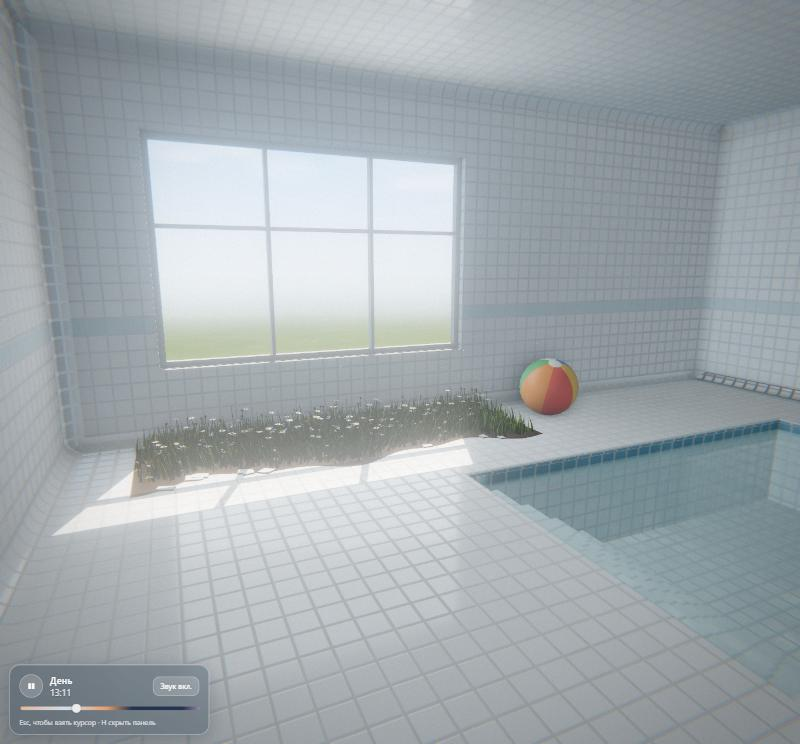
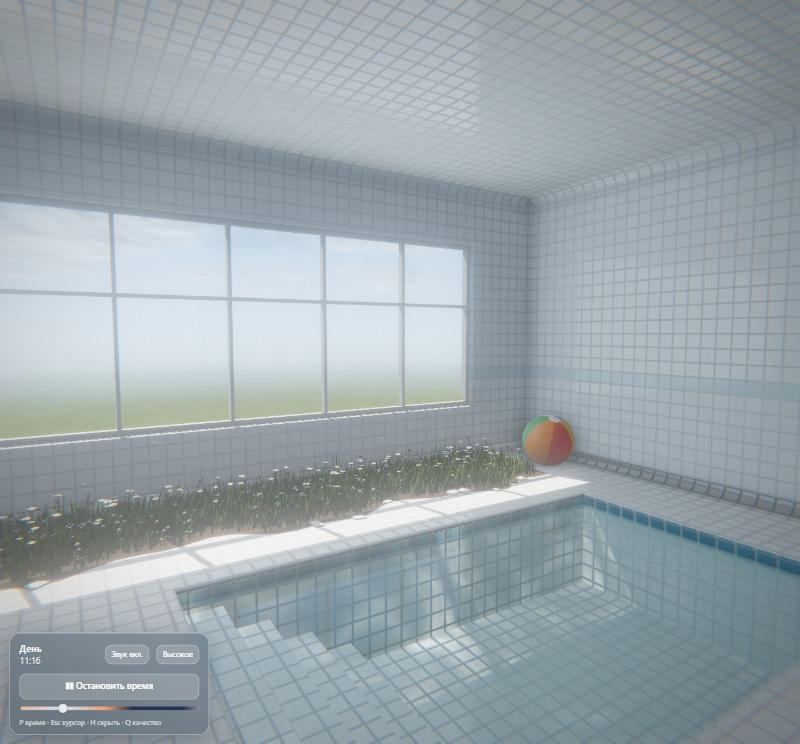
Widen window, extend meadow, drifting clouds, 2-minute day
- Window now spans most of the wall with six panes; meadow runs under it
- Two-layer drifting clouds lit from the sun side
- Day cycle lengthened to 120 s; clearer stop-time button
- Rebalanced light for the larger window

diff --git a/index.html b/index.html
@@ -4,7 +4,7 @@
   <meta charset="utf-8">
   <meta name="viewport" content="width=device-width, initial-scale=1">
   <title>Pool Room</title>
-  <meta name="description" content="Небольшая лиминальная комната с бассейном, окном и луговой травой. Сутки проходят за полторы минуты.">
+  <meta name="description" content="Небольшая лиминальная комната с бассейном, окном и луговой травой. Сутки проходят за две минуты.">
   <style>
     :root {
       --glass-bg: rgba(46, 62, 78, 0.32);
@@ -105,7 +105,8 @@
       gap: 10px;
     }
     .row { display: flex; align-items: center; gap: 12px; }
-    #play { width: 40px; height: 40px; padding: 0; border-radius: 50%; font-size: 13px; }
+    #play { width: 100%; font-weight: 600; }
+    #play.stopped { background: rgba(255, 214, 160, 0.3); border-color: rgba(255, 220, 170, 0.6); }
     .info { display: flex; flex-direction: column; flex: 1; }
     #phase { font-weight: 600; font-size: 16px; }
     #clock { color: var(--text-soft); font-variant-numeric: tabular-nums; }
@@ -153,12 +154,12 @@
   <div id="intro">
     <div class="glass card">
       <h1>Pool Room</h1>
-      <p>Тихая кафельная комната с бассейном и травой под окном. Сутки проходят за полторы минуты.</p>
+      <p>Тихая кафельная комната с бассейном и травой под окном. Сутки проходят за две минуты.</p>
       <ul class="keys">
         <li><b>WASD</b> ходить, <b>Shift</b> быстрее</li>
         <li><b>Мышь</b> осмотреться</li>
         <li><b>Клик</b> пнуть мяч</li>
-        <li><b>P</b> пауза времени, <b>H</b> скрыть панель</li>
+        <li><b>P</b> остановить время, <b>H</b> скрыть панель</li>
         <li><b>M</b> звук, <b>Q</b> качество графики</li>
         <li><b>Esc</b> вернуть курсор</li>
       </ul>
@@ -170,7 +171,6 @@
 
   <div id="panel" class="glass">
     <div class="row">
-      <button id="play" aria-label="Пауза">❚❚</button>
       <div class="info">
         <span id="phase">Утро</span>
         <span id="clock">06:00</span>
@@ -178,8 +178,9 @@
       <button id="sound">Звук вкл.</button>
       <button id="quality" title="Q">Высокое</button>
     </div>
+    <button id="play" title="P">❚❚  Остановить время</button>
     <input id="time" type="range" min="0" max="999" value="15" aria-label="Время суток">
-    <p class="hint">Esc, чтобы взять курсор · H скрыть панель</p>
+    <p class="hint">P время · Esc курсор · H скрыть · Q качество</p>
   </div>
 
   <script type="module" src="./src/main.js"></script>

diff --git a/src/layout.js b/src/layout.js
@@ -3,8 +3,8 @@
 
 export const ROOM = { x0: -4, x1: 4, z0: -3, z1: 3, height: 3.5, wall: 0.25, base: -1.15 };
 export const POOL = { x0: -1, x1: 3, z0: -1.2, z1: 1.3, bottom: -0.95, water: -0.12 };
-export const WINDOW = { x0: -3.2, x1: 0, y0: 0.7, y1: 2.8 };
-export const MEADOW = { x0: -3.45, x1: 0.25, z0: -3, z1: -1.9 };
+export const WINDOW = { x0: -3.2, x1: 3.0, y0: 0.7, y1: 2.8, panes: 6 };
+export const MEADOW = { x0: -3.45, x1: 3.25, z0: -3, z1: -1.9 };
 export const EYE_HEIGHT = 1.65;
 
 // Ступени из кафеля вдоль западного края бассейна: спускаются от пола к дну.
@@ -52,6 +52,7 @@ export const LAYOUT_GLSL = /* glsl */ `
 #define WIN_X1 ${f(WINDOW.x1)}
 #define WIN_Y0 ${f(WINDOW.y0)}
 #define WIN_Y1 ${f(WINDOW.y1)}
+#define WIN_PANES ${f(WINDOW.panes)}
 #define POOL_C vec2(${f((POOL.x0 + POOL.x1) / 2)}, ${f((POOL.z0 + POOL.z1) / 2)})
 #define POOL_H vec2(${f((POOL.x1 - POOL.x0) / 2)}, ${f((POOL.z1 - POOL.z0) / 2)})
 #define POOL_WATER ${f(POOL.water)}
@@ -65,17 +66,17 @@ float inBeam(vec3 p, vec3 ld) {
        * smoothstep(WIN_Y0, WIN_Y0 + e, h.y) * (1.0 - smoothstep(WIN_Y1 - e, WIN_Y1, h.y));
 }
 
-// То же, но с тенью от переплёта окна (две вертикальные и одна горизонтальная перекладина).
+// То же, но с тенью от переплёта окна (вертикальные перекладины и одна горизонтальная).
 float inBeamFramed(vec3 p, vec3 ld) {
   float b = inBeam(p, ld);
   if (b <= 0.0) return 0.0;
   float t = (ROOM_Z0 - p.z) / ld.z;
   vec2 h = p.xy + ld.xy * t;
-  float w = WIN_X1 - WIN_X0;
-  float m1 = smoothstep(0.012, 0.03, abs(h.x - (WIN_X0 + w / 3.0)));
-  float m2 = smoothstep(0.012, 0.03, abs(h.x - (WIN_X0 + w * 2.0 / 3.0)));
-  float m3 = smoothstep(0.012, 0.03, abs(h.y - (WIN_Y0 + (WIN_Y1 - WIN_Y0) * 0.62)));
-  return b * m1 * m2 * m3;
+  float pane = (WIN_X1 - WIN_X0) / WIN_PANES;
+  float u = (h.x - WIN_X0) / pane;
+  float mv = smoothstep(0.012, 0.03, abs(fract(u + 0.5) - 0.5) * pane);
+  float mh = smoothstep(0.012, 0.03, abs(h.y - (WIN_Y0 + (WIN_Y1 - WIN_Y0) * 0.62)));
+  return b * mv * mh;
 }
 
 // Бегущий узор отблесков воды.

diff --git a/src/sky.js b/src/sky.js
@@ -67,10 +67,23 @@ void main() {
   float core = smoothstep(0.35, 0.0, length(fract(sp) - 0.5));
   col += vec3(star * core * tw * 3.0) * uStars * smoothstep(0.0, 0.15, h);
 
+  // Плывущие кучевые облака: два слоя с разной скоростью, подсвеченные со стороны солнца.
   if (h > 0.0) {
-    vec2 cp = d.xz / (h + 0.15) * 1.2 + vec2(uTime * 0.012, uTime * 0.004);
-    float c = smoothstep(0.5, 0.85, fbm(cp));
-    col = mix(col, uCloud, c * 0.8 * smoothstep(0.0, 0.2, h));
+    vec2 base = d.xz / (h + 0.12);
+    float fadeH = smoothstep(0.0, 0.18, h);
+    for (int layer = 0; layer < 2; layer++) {
+      float fl = float(layer);
+      vec2 wind = vec2(0.045, 0.012) * (1.0 + fl * 0.6);
+      vec2 cp = base * (0.9 + fl * 0.5) + uTime * wind + fl * 7.3;
+      vec2 warp = vec2(fbm(cp * 0.7 + 3.1), fbm(cp * 0.7 - 1.7));
+      float dens = fbm(cp + warp * 0.8);
+      float c = smoothstep(0.48 + fl * 0.06, 0.78, dens);
+      // Освещённость: смотрим, насколько облако плотнее в сторону солнца.
+      float toward = fbm(cp + warp * 0.8 + normalize(uSunDir.xz + 1e-4) * 0.08);
+      float lit = clamp(0.65 + (dens - toward) * 4.0, 0.25, 1.3);
+      vec3 cc = uCloud * lit + uSunColor * 0.12 * max(lit - 0.8, 0.0) * smoothstep(-0.05, 0.1, uSunDir.y);
+      col = mix(col, cc, c * (0.85 - fl * 0.25) * fadeH);
+    }
   }
 
   gl_FragColor = vec4(col * uGain, 1.0);
@@ -111,7 +124,7 @@ export function createSky() {
     uniforms.uStars.value = s.stars;
     uniforms.uTime.value = time;
     // Снаружи заметно ярче, чем в комнате, — как на настоящем фото против окна.
-    uniforms.uGain.value = 1 + s.ai * 1.6;
+    uniforms.uGain.value = 1 + s.ai * 0.8;
     uniforms.uCloud.value.copy(s.hor).lerp(white, 0.55).multiplyScalar(0.35 + s.ai * 0.75).lerp(night, s.stars * 0.85);
   }
 

diff --git a/src/main.js b/src/main.js
@@ -42,7 +42,7 @@ const shared = {
   uWaterLit: { value: 0 },
 };
 
-const day = new DayCycle(90);
+const day = new DayCycle(120);
 const sky = createSky();
 scene.add(sky.mesh);
 const mats = buildRoom(scene, shared);
@@ -64,11 +64,11 @@ const cubeCamera = new THREE.CubeCamera(0.05, 100, cubeTarget);
 cubeCamera.position.set(0.2, 1.4, 0);
 scene.add(cubeCamera);
 const envMats = [
-  [mats.tile, 0.85],
-  [mats.coveTile, 0.85],
-  [mats.poolTile, 0.85],
-  [mats.frame, 0.8],
-  [ball.mesh.material, 0.9],
+  [mats.tile, 0.6],
+  [mats.coveTile, 0.6],
+  [mats.poolTile, 0.6],
+  [mats.frame, 0.6],
+  [ball.mesh.material, 0.7],
 ];
 for (const [m, k] of envMats) {
   m.envMap = cubeTarget.texture;
@@ -86,7 +86,7 @@ function captureEnvironment() {
 
 // Свет: солнце/луна через окно и мягкий свет неба из окна.
 const sunTarget = new THREE.Object3D();
-sunTarget.position.set(-1.2, 0, -1);
+sunTarget.position.set(0, 0, -1);
 scene.add(sunTarget);
 const sun = new THREE.DirectionalLight(0xffffff, 1);
 sun.target = sunTarget;
@@ -157,7 +157,7 @@ function applyLighting(time) {
   hemi.intensity = s.ai * 0.35;
 
   windowLight.color.copy(s.hor).lerp(white, 0.35);
-  windowLight.intensity = s.ai * 5;
+  windowLight.intensity = s.ai * 2.4;
 
   const ld = s.lightDir;
   let lit = 0;
@@ -220,8 +220,8 @@ player.controls.addEventListener('unlock', () => {
 
 function setPaused(p) {
   day.paused = p;
-  playBtn.textContent = p ? '▶' : '❚❚';
-  playBtn.setAttribute('aria-label', p ? 'Продолжить' : 'Пауза');
+  playBtn.textContent = p ? '▶  Запустить время' : '❚❚  Остановить время';
+  playBtn.classList.toggle('stopped', p);
 }
 playBtn.addEventListener('click', () => setPaused(!day.paused));
 slider.addEventListener('pointerdown', () => (dragging = true));

diff --git a/src/meadow.js b/src/meadow.js
@@ -158,7 +158,7 @@ export function buildMeadow(scene) {
 
   // Отколотые плитки по краю.
   const shardMat = new THREE.MeshStandardMaterial({ color: '#eef1f1', roughness: 0.35 });
-  for (let i = 0; i < 9; i++) {
+  for (let i = 0; i < 16; i++) {
     const x = MEADOW.x0 + 0.2 + rand() * (MEADOW.x1 - MEADOW.x0 - 0.4);
     const shard = new THREE.Mesh(new THREE.BoxGeometry(0.06 + rand() * 0.08, 0.012, 0.05 + rand() * 0.08), shardMat);
     shard.position.set(x, 0.008, meadowEdge(x) + 0.02 + rand() * 0.05);
@@ -176,7 +176,7 @@ export function buildMeadow(scene) {
 
   const grassMat = new THREE.MeshStandardMaterial({ vertexColors: true, side: THREE.DoubleSide, roughness: 0.85 });
   addSway(grassMat, time);
-  const blades = scatter(4600, rand, 0.9);
+  const blades = scatter(8500, rand, 0.9);
   const grass = new THREE.InstancedMesh(bladeGeometry(), grassMat, blades.length);
   blades.forEach(([x, z], i) => {
     e.set((rand() - 0.5) * 0.35, rand() * Math.PI * 2, (rand() - 0.5) * 0.35);
@@ -193,7 +193,7 @@ export function buildMeadow(scene) {
 
   const flowerMat = new THREE.MeshStandardMaterial({ vertexColors: true, side: THREE.DoubleSide, roughness: 0.7 });
   addSway(flowerMat, time);
-  const counts = { daisy: 75, buttercup: 60, forgetMeNot: 55, clover: 55, bluebell: 30 };
+  const counts = { daisy: 140, buttercup: 110, forgetMeNot: 100, clover: 100, bluebell: 55 };
   for (const [kind, count] of Object.entries(counts)) {
     const pts = scatter(count, rand, 0.9);
     const mesh = new THREE.InstancedMesh(FLOWERS[kind](), flowerMat, pts.length);

diff --git a/src/room.js b/src/room.js
@@ -239,8 +239,8 @@ export function buildRoom(scene, shared) {
   group.add(box(WINDOW.x0, WINDOW.x0 + fw, WINDOW.y0, WINDOW.y1, fz0, fz1, frame));
   group.add(box(WINDOW.x1 - fw, WINDOW.x1, WINDOW.y0, WINDOW.y1, fz0, fz1, frame));
   const ww = WINDOW.x1 - WINDOW.x0;
-  for (const k of [1 / 3, 2 / 3]) {
-    const x = WINDOW.x0 + ww * k;
+  for (let i = 1; i < WINDOW.panes; i++) {
+    const x = WINDOW.x0 + (ww * i) / WINDOW.panes;
     group.add(box(x - mw / 2, x + mw / 2, WINDOW.y0, WINDOW.y1, fz0, fz1, frame));
   }
   const ym = WINDOW.y0 + (WINDOW.y1 - WINDOW.y0) * 0.62;

diff --git a/src/ball.js b/src/ball.js
@@ -38,7 +38,7 @@ export class Ball {
     this.mesh.castShadow = true;
     this.mesh.receiveShadow = true;
     this.mesh.rotation.set(0.3, 0.8, 0.15);
-    this.pos = new THREE.Vector3(0.75, this.r, -2.35);
+    this.pos = new THREE.Vector3(3.55, this.r, -2.2);
     this.vel = new THREE.Vector3();
     this.wet = false;
     this.rippleT = 0;

diff --git a/src/effects.js b/src/effects.js
@@ -65,7 +65,7 @@ export const VolumetricShader = {
       }
       acc *= dt;
       float phase = 0.6 + 2.4 * pow(max(dot(rd, uLightDir), 0.0), 6.0);
-      gl_FragColor = vec4(base.rgb + uLightCol * acc * phase * 0.009, base.a);
+      gl_FragColor = vec4(base.rgb + uLightCol * acc * phase * 0.005, base.a);
     }
   `,
 };

diff --git a/src/daycycle.js b/src/daycycle.js
@@ -30,7 +30,7 @@ const smooth = (a, b, x) => {
 };
 
 export class DayCycle {
-  constructor(duration = 90) {
+  constructor(duration = 120) {
     this.duration = duration;
     this.t = 0.015;
     this.paused = false;

diff --git a/README.md b/README.md
@@ -1,6 +1,6 @@
 # Pool Room
 
-Небольшая лиминальная комната в духе pool rooms: белый кафель, мелкий бассейн с прозрачной водой, большое окно и луговая трава с мелкими цветами, проросшая сквозь плитку под подоконником. Ламп нет, весь свет приходит из окна, а сутки проходят за полторы минуты.
+Небольшая лиминальная комната в духе pool rooms: белый кафель, мелкий бассейн с прозрачной водой, большое окно и луговая трава с мелкими цветами, проросшая сквозь плитку под подоконником. Ламп нет, весь свет приходит из окна, а сутки проходят за две минуты.
 
 **Открыть в браузере:** https://pitr-griffin.github.io/pool-room/
 
@@ -9,7 +9,7 @@
 
 ## Что внутри
 
-- **Цикл суток за 90 секунд**: утро, день, вечер, ночь. За окном меняется небо (облака, закат, звёзды и луна), солнечный или лунный луч движется по полу и отбрасывает тень оконного переплёта.
+- **Цикл суток за 2 минуты**: утро, день, вечер, ночь. Время можно остановить кнопкой на панели или клавишей P. За широким окном меняется небо (плывущие облака, закат, звёзды и луна), солнечный или лунный луч движется по полу и отбрасывает тень оконного переплёта.
 - **Кафель**: плитка 15 см со скруглёнными краями, утопленными швами и глянцем. Стены плавно переходят в пол и потолок через скруглённые углы, как в настоящих бассейнах.
 - **Свет**: объёмные лучи из окна с пылинками, отражённый свет от самой комнаты, затенение в углах.
 - **Отблески воды** бегут по дну бассейна и по потолку, когда на воду падает свет.
@@ -26,7 +26,7 @@
 | Shift | идти быстрее |
 | Мышь | осмотреться |
 | Клик | пнуть мяч |
-| P | пауза времени суток |
+| P | остановить / запустить время суток |
 | H | скрыть панель |
 | M | вкл./выкл. звук |
 | Q | качество графики: высокое / быстрое (для слабых компьютеров) |
